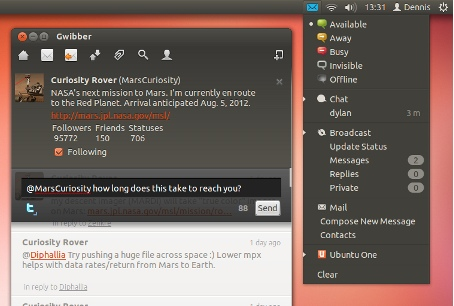
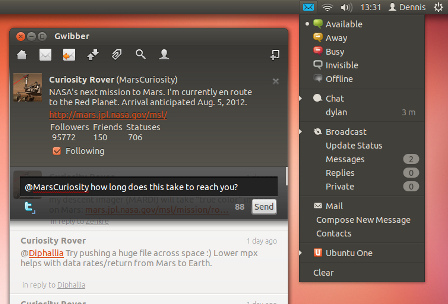
New Ubuntu One screenshot.

diff --git a/slideshows/ubuntu/slides/mobilise.html b/slideshows/ubuntu/slides/mobilise.html
@@ -10,6 +10,6 @@
 
 </div>
 
-<img class="screenshot" src="screenshots/mobilise.jpg" />
+<img class="screenshot" src="screenshots/ubuntuone.jpg" />
 
 </div>
